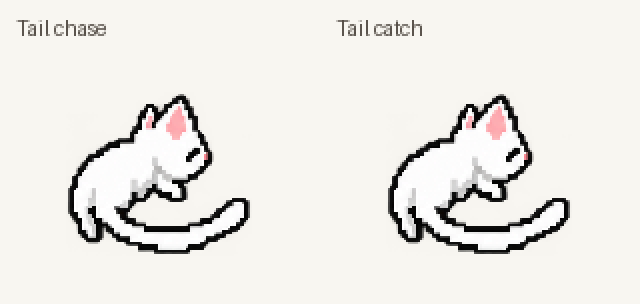
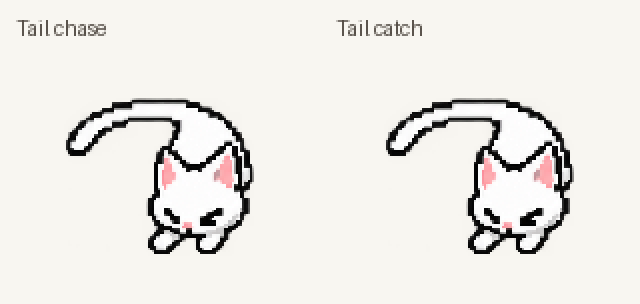
Extend tail chasing with cute transitions and favor special idles

Changed region(s): [[0.5938, 0.2961, 0.9062, 0.8586], [0.0938, 0.2961, 0.4062, 0.8586]]

diff --git a/animations.py b/animations.py
@@ -56,10 +56,10 @@ CLIPS = {
     "tail": Clip("tailswish", 0, (450, 220, 220, 350, 220, 220, 280, 900), tuple(range(8))),
     "ears": Clip("idle", 2, (700, 250, 350, 900)),
     "sniff": Clip("idle", 3, (450, 350, 450, 850)),
-    "tail_chase": Clip("tailplay", 0, (300, 200) + (50,) * 22 + (180, 500),
-                       (11, 12) + tuple(range(11)) * 2 + (12, 15)),
-    "tail_catch": Clip("tailplay", 0, (300, 200) + (50,) * 33 + (100, 120, 300, 120, 150, 400),
-                       (11, 12) + tuple(range(11)) * 3 + (12, 13, 14, 13, 12, 15)),
+    "tail_chase": Clip("tailplay", 0, (300, 180, 180, 100) + (50,) * 55 + (100, 180, 300, 600),
+                       (16, 17, 18, 19) + tuple(range(11)) * 5 + (20, 21, 22, 23)),
+    "tail_catch": Clip("tailplay", 0, (300, 180, 180, 100) + (50,) * 22 + (120, 350, 120, 150, 180, 300, 600),
+                       (16, 17, 18, 19) + tuple(range(11)) * 2 + (13, 14, 13, 12, 21, 22, 23)),
     "arrive": Clip("arrival", 0, (200, 200, 300, 120, 180, 160, 220, 520), tuple(range(8))),
     "depart": Clip("lifecycle", 2, (650, 350, 200, 150, 200, 200, 200, 200), tuple(range(8))),
     "happy": Clip("pets", 0, (450, 600, 650, 900)),
@@ -111,7 +111,7 @@ class SpriteAtlas:
                                     ("movement", 3, 4), ("transitions", 1, 4), ("affection", 1, 4),
                                     ("petting-a", 1, 3), ("petting-b", 1, 3),
                                     ("tailplay", 4, 4), ("lifecycle", 2, 4), ("tailswish", 1, 2),
-                                    ("arrival", 1, 2), ("farewell", 1, 1)):
+                                    ("arrival", 1, 2), ("farewell", 1, 1), ("tailsettle", 1, 2)):
             filename = f"neko-{bank}-v{version}.png"
             image = QImage(str(Path(path) / filename))
             if image.isNull():
@@ -127,15 +127,15 @@ class SpriteAtlas:
                     left, top = col * image.width() // 4, row * image.height() // rows
                     right, bottom = (col + 1) * image.width() // 4, (row + 1) * image.height() // rows
                     region = QRect(left, top, right - left, bottom - top)
-                    if bank in ("petting-a", "petting-b", "arrival", "tailplay"):
+                    if bank in ("petting-a", "petting-b", "arrival", "tailplay", "tailsettle"):
                         # Drawn baselines can cross a nominal row; isolate the center silhouette with padding.
                         margin = region.height() // 5
                         region = region.adjusted(0, -margin, 0, margin).intersected(image.rect())
-                    if bank == "tailplay":
+                    if bank in ("tailplay", "tailsettle"):
                         margin = (right - left) // 5
                         region = region.adjusted(-margin, 0, margin, 0).intersected(image.rect())
                     cell = image.copy(region)
-                    if bank in ("arrival", "tailplay"):
+                    if bank in ("arrival", "tailplay", "tailsettle"):
                         cell = cell.scaledToWidth(round(128 * region.width() / (right - left)),
                                                   Qt.FastTransformation)
                     else:
@@ -151,7 +151,7 @@ class SpriteAtlas:
                 sprite = QPixmap.fromImage(cell).scaled(
                     round(cell.width() * scale_x), round(cell.height() * scale_y),
                     Qt.IgnoreAspectRatio, Qt.FastTransformation)
-            elif key[0] in ("tailplay", "lifecycle", "tailswish", "arrival", "farewell"):
+            elif key[0] in ("tailplay", "lifecycle", "tailswish", "arrival", "farewell", "tailsettle"):
                 start_row = 0 if key[0] == "tailplay" else key[1] // 2 * 2
                 rows = range(4) if key[0] == "tailplay" else range(start_row, start_row + (1 if key[0] == "farewell" else 2))
                 row_cells = [cells[key[0], row, col] for row in rows
@@ -160,7 +160,7 @@ class SpriteAtlas:
                              cells["arrival", 1, 3] if key[0] == "arrival" else row_cells[0])
                 scale = min(82 / reference.height(),
                             104 / max(cell.width() for cell in row_cells),
-                            (98 if key[0] in ("tailplay", "arrival", "farewell") else 82)
+                            (98 if key[0] in ("tailplay", "arrival", "farewell", "tailsettle") else 82)
                             / max(cell.height() for cell in row_cells))
                 sprite = QPixmap.fromImage(cell).scaled(
                     round(cell.width() * scale), round(cell.height() * scale),
@@ -187,9 +187,14 @@ class SpriteAtlas:
             painter.drawPixmap(left, ground - sprite.height(), sprite)
             painter.end()
             self.frames[key] = frame
+        # Append the separately calibrated entry/settle drawings to the tail sequence.
+        for row in range(2):
+            for col in range(4):
+                self.frames["tailplay", row + 4, col] = self.frames.pop(("tailsettle", row, col))
         # The shared seated drawing prevents a different face popping in at rest.
         idle = self.frames["idle", 0, 0]
         for key in (("arrival", 1, 3), ("tailplay", 2, 3), ("tailplay", 3, 3),
+                    ("tailplay", 4, 0), ("tailplay", 5, 3),
                     ("tailswish", 0, 0), ("tailswish", 1, 3)):
             self.frames[key] = idle
         self.frames["lifecycle", 2, 0] = self.frames["farewell", 0, 0]

diff --git a/test_animations.py b/test_animations.py
@@ -13,9 +13,9 @@ APP = QApplication.instance() or QApplication([])
 
 
 class AnimationTests(unittest.TestCase):
-    def test_atlas_has_150_drawings_without_retired_or_malformed_frames(self):
+    def test_atlas_has_158_drawings_without_retired_or_malformed_frames(self):
         atlas = SpriteAtlas(Path(__file__).parent / "assets")
-        self.assertEqual(len(atlas.frames), 150)
+        self.assertEqual(len(atlas.frames), 158)
         self.assertFalse(any(key[0] == "petting" or key[:2] in (("pets", 2), ("affection", 2), ("idle", 1))
                              for key in atlas.frames))
         for retired in ("wave", "shy_dip", "nose_wiggle", "tail_curl"):
@@ -117,15 +117,18 @@ class AnimationTests(unittest.TestCase):
             self.assertEqual(atlas.frame(name, 0).toImage(), idle, name)
             self.assertEqual(atlas.frame(name, 999).toImage(), idle, name)
 
-    def test_tail_chase_has_two_turns_and_catch_has_three_before_its_pounce(self):
-        for name, turns in (("tail_chase", 2), ("tail_catch", 3)):
+    def test_tail_chase_lasts_longer_than_catch_with_shared_drawn_transitions(self):
+        for name, turns in (("tail_chase", 5), ("tail_catch", 2)):
             clip = CLIPS[name]
             cycle = tuple(range(11))
-            self.assertEqual(clip.order[2:2 + turns * 11], cycle * turns, name)
-            self.assertEqual(clip.durations[2:2 + turns * 11], (50,) * (turns * 11), name)
+            self.assertEqual(clip.order[:4], (16, 17, 18, 19), name)
+            self.assertEqual(clip.order[4:4 + turns * 11], cycle * turns, name)
+            self.assertEqual(clip.durations[4:4 + turns * 11], (50,) * (turns * 11), name)
+            self.assertEqual(clip.order[-3:], (21, 22, 23), name)
             self.assertFalse(clip.loop)
             self.assertLess(sum(clip.durations), 6000)
-        self.assertIn(14, CLIPS["tail_catch"].order[35:])
+        self.assertIn(14, CLIPS["tail_catch"].order[26:])
+        self.assertGreater(sum(CLIPS["tail_chase"].durations), sum(CLIPS["tail_catch"].durations) + 800)
 
     def test_new_source_poses_fit_without_clipping_their_silhouettes(self):
         atlas = SpriteAtlas(Path(__file__).parent / "assets")

diff --git a/test_behavior.py b/test_behavior.py
@@ -1,5 +1,6 @@
 import random
 import unittest
+from unittest.mock import patch
 
 from behavior import Companion, NekoState, PET_STATES, IDLE_STATES
 
@@ -108,6 +109,30 @@ class CompanionTests(unittest.TestCase):
         self.assertIn(NekoState.TAIL_CHASE, IDLE_STATES)
         self.assertIn(NekoState.TAIL_CATCH, IDLE_STATES)
         self.assertEqual(len(PET_STATES), 12)
+
+    def test_tail_games_get_three_times_the_idle_weight_without_repeating(self):
+        self.pet.last_idle = NekoState.TAIL_CHASE
+        with patch.object(self.pet.rng, "choice", wraps=self.pet.rng.choice) as choose:
+            self.assertEqual(self.pet.tick(20, 0, quiet=True), "fidget")
+        choices = choose.call_args.args[0]
+        self.assertNotIn(NekoState.TAIL_CHASE, choices)
+        for state in IDLE_STATES:
+            if state != NekoState.TAIL_CHASE:
+                self.assertEqual(choices.count(state), 3 if state == NekoState.TAIL_CATCH else 1)
+
+    def test_weighted_tail_games_still_leave_room_for_every_other_idle(self):
+        counts = dict.fromkeys(IDLE_STATES, 0)
+        previous = None
+        for _ in range(3000):
+            self.assertEqual(self.pet.tick(self.pet.next_idle + 1, 0, quiet=True), "fidget")
+            self.assertNotEqual(self.pet.state, previous)
+            counts[self.pet.state] += 1
+            previous = self.pet.state
+            self.pet.tick(self.pet.pose_until, 0, quiet=True)
+        share = (counts[NekoState.TAIL_CHASE] + counts[NekoState.TAIL_CATCH]) / 3000
+        self.assertGreater(share, 0.30)
+        self.assertLess(share, 0.45)
+        self.assertTrue(all(counts.values()))
 
     def test_timed_nap_counts_from_settling_and_wakes_gently_without_immediate_resleep(self):
         pet = Companion(0, sleep_seconds=45, sleep_duration=60)

diff --git a/behavior.py b/behavior.py
@@ -178,7 +178,8 @@ class Companion:
             return "fidget"
 
         if now >= self.next_idle:
-            choices = [s for s in IDLE_STATES if s != self.last_idle]
+            choices = [s for s in IDLE_STATES if s != self.last_idle
+                       for _ in range(3 if s in (NekoState.TAIL_CHASE, NekoState.TAIL_CATCH) else 1)]
             self.last_idle = self.rng.choice(choices)
             self.pose(self.last_idle, now, 8 if self.last_idle == NekoState.LOAFING else 6)
             self.next_idle = now + self.idle_seconds * self.rng.uniform(0.8, 1.3)

diff --git a/test_packaging.py b/test_packaging.py
@@ -26,6 +26,7 @@ class PackagingTests(unittest.TestCase):
         self.assertIn("assets/neko-petting-a-v1.png", names)
         self.assertIn("assets/neko-petting-b-v1.png", names)
         self.assertIn("assets/neko-tailplay-v4.png", names)
+        self.assertIn("assets/neko-tailsettle-v1.png", names)
         self.assertNotIn("assets/neko-tailplay-v3.png", names)
         self.assertIn("assets/neko-arrival-v1.png", names)
         self.assertIn("assets/neko-farewell-v1.png", names)

diff --git a/tools/preview_animations.py b/tools/preview_animations.py
@@ -167,7 +167,7 @@ def cursor_preview(atlas, destination):
 if __name__ == "__main__":
     app = QApplication.instance() or QApplication([])
     atlas = SpriteAtlas(ROOT / "assets")
-    assert len(atlas.frames) == 150
+    assert len(atlas.frames) == 158
     folder = ROOT / "docs"
     for entries, stem in ((IDLES, "neko-idle-catalog"), (ACTIVITIES, "neko-activity-catalog")):
         catalog(atlas, entries, folder / stem)

diff --git a/docs/tail-lifecycle-notes.md b/docs/tail-lifecycle-notes.md
@@ -4,13 +4,17 @@
 
 [Monitor-scene arrival and farewell](neko-lifecycle-scene.gif) · [Native-size playback](neko-tail-life-native.gif) · [All used source poses](neko-tail-life-source-frames.png)
 
-The attached GIF correction replaces the earlier slow tucked-tail cycle. Its eleven 50ms poses now guide low, stretched running with squeezed-shut eyes, alternating scrambling paws and a long tail trailing outside the turn. One 550ms turn repeats twice for chase and three times before the catch/pounce. Chase lasts 2.28 seconds; catch lasts 3.34 seconds, both inside the six-second idle slot. The lazy swish and twelve pet reactions remain as previously calibrated. [Tail-only playback](neko-tail-reference-preview.gif) preserves exact 50ms frame timing.
+The attached GIF correction replaces the earlier slow tucked-tail cycle. Its eleven 50ms poses guide low, stretched running with squeezed-shut eyes, alternating scrambling paws and a long tail trailing outside the turn. One 550ms turn now repeats five times for chase and twice before the catch/pounce. Chase lasts 4.69 seconds; catch lasts 3.68 seconds, both inside the six-second idle slot. The lazy swish and twelve pet reactions remain as previously calibrated. [Tail-only playback](neko-tail-reference-preview.gif) preserves exact 50ms frame timing.
+
+Eight new transition drawings add an eager head tilt, a crouch and a run-ready pose, then a deceleration pose, half-sit and contented closed-eye tilt before returning to canonical idle. Both clips share the entry and seated recovery; catch goes from its low pounce/crouch directly into the half-sit. The new source sheet is calibrated independently and appended as indices 16–23 in the tail bank, keeping the accepted running frames unchanged. Idle endpoints use the actual idle drawing.
+
+Each tail game has three times the selection weight of an ordinary spontaneous idle. The last selected idle is excluded before weighting, so consecutive identical idles remain impossible. Other idles, sleep timing, six-second slots and the configured gap between gestures are preserved. A seeded 3,000-selection simulation checks that tail games make up 30–45% of choices and every other idle still appears.
 
 Arrival lasts 1.9 seconds. Her actual 112px desktop window moves from just above the target monitor to the saved landing position over 700ms, with accelerating travel. Complete airborne/forepaw-contact poses lead into compression, a cheerful rebound and the canonical idle drawing. Ink is clipped to the target monitor's top edge, including when another monitor sits above it. The monitor-scene preview uses the production trajectory and atlas; the pose catalog alone does not show desktop window travel.
 
 Departure lasts 2.15 seconds. A sad look with lowered ears appears immediately for 650ms; a second downcast pose holds 350ms. The retained crouch follows for 200ms, then the previously accepted hop drawings and upward/downward arc. There is no new dialogue. Only the first two farewell candidates are imported.
 
-The atlas has 150 entries. neko-tailplay-v4.png, neko-arrival-v1.png and neko-farewell-v1.png provide the new art. neko-lifecycle-v2.png remains for its accepted departure poses; its old arrival rows are not loaded. Retired tailplay sheets are removed from the bundle. Shared idle endpoints prevent a face change at rest.
+The atlas has 158 entries. neko-tailplay-v4.png, neko-tailsettle-v1.png, neko-arrival-v1.png and neko-farewell-v1.png provide the current art. neko-lifecycle-v2.png remains for its accepted departure poses; its old arrival rows are not loaded. Retired tailplay sheets are removed from the bundle. Shared idle endpoints prevent a face change at rest.
 
 Generated poses slightly cross nominal row boundaries. Arrival and tail cells use padded sampling regions, connected-silhouette bounds and constant width-based source sampling, so paws are retained without changing scale between rows. Whole sequences share a scale and ground anchor; frames are never individually fitted to their bounding boxes. No anatomy pixels were painted or patched programmatically.
 
@@ -19,5 +23,7 @@ Every used new pose was inspected at enlarged and desktop size for one connected
 Position saves always use the landing target during flight. Hiding, motion-off, fullscreen, quitting and monitor removal restore that target before proceeding. Greeting happens after landing, unless interrupted. Petting and window reactions cannot interrupt lifecycle states; repeat quit does not restart farewell. Reduced motion and hidden/fullscreen quit remain immediate. Palm feedback and idle/pet head calibration remain unchanged.
 
 See [exact prompts](playful-motion-prompts.md), [verification](playful-motion-validation.md) and the earlier [rebuild record](animation-rebuild-validation.md).
+
+This addition has its own [transition prompt](tail-transitions-prompts.md), [verification record](tail-transitions-validation.md) and [other-idle ideas](idle-personality-ideas.md).
 
 Rebuild previews with .venv\Scripts\python.exe tools\preview_animations.py (optional Pillow). These use production atlas/timing, 30 samples/second for lifecycle, 20 FPS for tail running and 10 FPS for other actions. GIF loops are documentation replay; startup/departure run once.

diff --git a/docs/tail-transitions-prompts.md b/docs/tail-transitions-prompts.md
@@ -1,0 +1,22 @@
+# Tail entry and recovery: exact prompt
+
+Built-in ImageGen, transparent background. Character/motion references: `assets/neko-tailplay-v4.png` and `assets/neko-idle-v3.png`. Saved source: `assets/neko-tailsettle-v1.png`. The existing running sheet is preserved unchanged. Only the new sheet's import, timing and runtime previews use scripts; no anatomy pixels were programmatically edited.
+
+```text
+Use case: stylized-concept. Create a PRODUCTION TRANSPARENT PIXEL ART transition sheet for this existing white desktop kitten. Image1 is the EXACT accepted tail-running animation and image2 is the EXACT sitting identity. Preserve the existing white fur, dark stepped outline, gray shading, pink small ears/nose, rounded head, kitten proportions and head volume. This is eight NEW transition drawings, not a replacement for the running cycle. Exact 4 equal columns x2 equal rows, eight COMPLETE isolated sprites in reading order. All eight have SAME physical head size (same as reference), generous clear margins, fixed camera and planted-paw baseline, transparent alpha. No labels, floor, shadow, effects or props. Ordinary four-legged kitten anatomy: one head, one body, FOUR legs total, exactly two forelegs, one continuous tail attached at pelvis. Moving paws REPLACE old paws, hidden legs stay hidden.
+
+Frames1-4 INTRO TO TAIL GAME:
+1 front-facing neutral seated kitten, exact sitting identity reference and proportions, two forepaws planted, haunches tucked, single curled tail.
+2 seated kitten notices her own tail with a small eager sideways HEAD TILT, eyes bright, chest leans slightly toward tail, forepaws stay grounded. Cute anticipation, no human arm gesture.
+3 turns to front-right three-quarter and lowers front shoulders into a playful low crouch, hind hips rise slightly, two existing forepaws bend, hindfeet behind hips. Single tail uncurls outward behind rump. Head volume unchanged.
+4 low CURVED RUN-READY position matching FIRST sprite of image1: head at lower right, body arcs upper left, one forepaw forward and other behind, long single tail trailing in wide arc left. Eyes squeeze closed, ready to chase. This must connect naturally to first accepted run frame.
+
+Frames5-8 SETTLE FROM TAIL GAME BACK TO IDLE:
+5 run has just stopped: same low curved head-lower-right position as frame4 and first/last running sprite, eyes reopen softly, front paws both plant, hips lower a little, tail begins to relax from its outward arc. No abrupt upright pose.
+6 brings BOTH rear legs under hips, chest rises partway and rotates face toward viewer, forepaws remain planted with elbows unbending, one single tail slowly curls back toward side. Clear HALF-SIT silhouette halfway between crouch and sitting, no extra old legs left behind.
+7 nearly upright seated, TWO forepaws together, small relaxed satisfied HEAD TILT and CLOSED-EYE smile/slow blink, soft shoulders, one curled tail. This is a cute contented recovery, not a dizzy effect or falling.
+8 neutral seated front-facing exactly matching frame1 and the sitting identity reference, same head/body size and feet positions.
+
+All source sprites fully inside their cells with padding. Prioritize natural crouch -> half-sit -> contented sit, connected body silhouette and consistent head scale. No duplicated limbs, disconnected tail, giant ears, changing face proportions, human hands, belly holes or floating paws. The running body's tail trails OUTSIDE the turn, never coils under chin or around chest. Match existing art rather than redesigning the kitten.
+```
+

diff --git a/docs/tail-transitions-validation.md b/docs/tail-transitions-validation.md
@@ -1,0 +1,35 @@
+# Longer tail chase, cute transitions and frequent special idles — 2026-10-21
+
+## Result
+
+- Chase: five turns at the accepted 550ms per turn; 4.69s including entry/recovery.
+- Catch: two turns at the same speed, followed by its existing pounce/catch/release; 3.68s including entry/recovery.
+- Both fit the existing six-second idle slot, then rest. The chase lasts 1.01s longer than catch.
+- Each tail game gets three times an ordinary idle's selection weight. The last idle is excluded before weighting. Other idles and configured time between gestures remain unchanged.
+- Eight new transition drawings are appended to the tail bank as indices 16–23; 158 total atlas entries. The accepted running sheet and all other character art are unchanged.
+
+![Updated tail games](neko-tail-reference-preview.gif)
+
+## Art and handoff inspection
+
+Built-in ImageGen produced `assets/neko-tailsettle-v1.png` from the accepted tail sheet and idle identity reference. [Exact prompt](tail-transitions-prompts.md).
+
+Reviewed all eight source poses plus entry and recovery sequences in playback order at runtime scale and enlarged. Entry: seated idle, eager head tilt, crouch, run-ready, then accepted run. Chase recovery: final run, lowered hips, half-sit, contented tilted blink, canonical idle. Catch recovery: pounce/catch/release, crouch, half-sit, blink, idle. First and last seated candidates are replaced by the actual idle frame to keep the resting face consistent.
+
+No additional limbs or disconnected tails were observed. Forepaws stay planted through the half-sit; rear legs are tucked or occluded where appropriate. All used source silhouettes fit the 112px transparent canvas with clear borders. Separate calibration of the new sheet keeps the established running drawings unchanged. Source padding retains extremities across nominal cell boundaries. Scripts render/slice art; no anatomy pixels were painted or patched programmatically. Anatomical correctness remains a visual assessment.
+
+## Checks
+
+- Red/green: new duration/transition test and both selection regressions failed before implementation, then passed.
+- Focused animation/behavior run: 45 passed.
+- Full discovery: 125 run, 123 passed, two packaging tests skipped pending rebuild.
+- Clean PyInstaller build passed; `dist/DesktopNeko.exe` contains the transition sheet.
+- Packaged executable checks: both passed, including archive contents, native startup, tray/window initialization and second-instance exit.
+- Four focused native Windows checks passed: tail versus walking cadence, all-state rendering, source border clipping and previous pet head calibration.
+- A 3,000-selection seeded simulation passes the 30–45% combined tail-game share range, no consecutive repeated idle, and coverage of every ordinary idle.
+- Isolated in-memory mutation removing the extra tail weight fails the new exact-weight regression, as expected. Production files were untouched.
+- Runtime catalogs, source contact sheets and exact-50ms tail preview regenerated. `git diff --check` passed.
+
+## Scope limits
+
+No new physical multi-monitor hardware check. The old standalone Desktop executable is not overwritten; use the rebuilt file in `dist`. [Other-idle ideas](idle-personality-ideas.md) are proposals rather than implemented animation changes.

diff --git a/README.md b/README.md
@@ -24,7 +24,7 @@ Soft sounds are optional and off until you enable them.
   left or right toward it, keeping the same height. Each walk can last 6.5 seconds, travels at most about 220 pixels,
   and keeps a gap from the arrow. Mouse following is optional, with a 25-second rest.
 - **Keep working.** Tail swishes, ear flicks, sniffing, loafing, grooming, stretches,
-  yawns and sleepy peeks use 150 loaded drawings, including eight-frame transitions into
+  yawns and sleepy peeks use 158 loaded drawings, including eight-frame transitions into
   sleep and back to sitting. Most gestures have 5–6 seconds on screen: one gentle
   motion followed by a relaxed rest, without repeated head-bobbing or stretching.
   Tail swishes make one lazy sweep and rest; kneading and paw taps use slower continuous cycles.
@@ -36,9 +36,12 @@ Soft sounds are optional and off until you enable them.
   head position. Each reaction retains the same calibration throughout its poses,
   so crouching and lying down do not cause the old whole-body fitting size jump.
   Walking, loafing and sleep preserve their natural posture and proportions.
-- **A little tail trouble.** She runs low with closed eyes and a trailing tail through two quick
-  turns, following the supplied GIF's eleven 50ms poses. The catch game takes three turns, then a small pounce and a
-  two-paw catch before the tip slips away. Each finishes in her normal sitting drawing.
+- **A little tail trouble.** She runs low with closed eyes and a trailing tail through five quick
+  turns, following the supplied GIF's eleven 50ms poses. The catch game takes two turns, then a small pounce and a
+  two-paw catch before the tip slips away. An eager head tilt and crouch lead into play;
+  a half-sit and contented blink bring her back to sitting. Chase lasts 4.69 seconds,
+  catch 3.68 seconds. Each gets three times an ordinary idle's selection weight,
+  with no consecutive repeats and the same rest between gestures.
   These do not change the twelve pet reactions.
 - **Hello and goodbye.** Starting the app plays a drop-in, landing crouch and
   sit-up before her greeting. She enters from her monitor's top edge and lands at
@@ -191,6 +194,8 @@ supplies the retained chin scritches, blep and ear rubs.
 `assets/neko-petting-a-v1.png` and `assets/neko-petting-b-v1.png` each contain
 three rows of four drawings, for five new reactions and the remade paw offer.
 `assets/neko-tailplay-v4.png` supplies the eleven-pose running cycle and five preparation/payoff poses.
+`assets/neko-tailsettle-v1.png` adds eight entry/recovery poses, calibrated separately
+and appended to the tail sequence without altering the accepted running artwork.
 `assets/neko-arrival-v1.png` supplies the graceful landing; the first two drawings in
 `assets/neko-farewell-v1.png` introduce sadness before the retained hop in
 `assets/neko-lifecycle-v2.png`. `assets/neko-tailswish-v1.png` supplies the lazy swish.

diff --git a/docs/idle-personality-ideas.md b/docs/idle-personality-ideas.md
@@ -1,0 +1,11 @@
+# Giving other idles a little story
+
+Ideas for a later art pass; these are not implemented by the tail-transition change.
+
+- **Grooming:** lick one paw, wipe behind an ear, pause as if she noticed you watching, then give a soft blink. A small pause makes the payoff readable.
+- **Stretch:** reach both front paws, lengthen her back, stretch one existing hindleg, then settle with a tiny paw shake. Keep four anatomical limbs through every drawing.
+- **Loaf:** tuck each front paw in turn, draw the tail close, relax the shoulders and finish with a slow blink. The final tucked silhouette should match the resting loaf.
+- **Sniffing:** lean toward the cursor, make two little nose twitches, then a curious head tilt before sitting back. Keep cursor following subject to its existing cooldown.
+- **Ear flick:** one ear reacts first, the head turns a little, then both ears relax and she looks back at the user. A short anticipation hold gives the flick a reason.
+
+The useful pattern is anticipation, a clear action, then an affectionate payoff. Each animation should finish in a compatible rest pose, play once, and leave breathing room. A small set of carefully drawn variations would add more personality than making every idle longer or more frequent.

diff --git a/tasks/plan.md b/tasks/plan.md
@@ -1,5 +1,9 @@
 # Animation rebuild
 
+## Longer chase and frequent special idles
+
+Make chase longer than catch while preserving the accepted 50ms running poses. Chase takes five turns and catch two; both gain a drawn eager lean/crouch entry and a relaxed half-sit/blink recovery. Target 4.69s versus 3.68s, inside existing six-second slots. Generate eight transition poses without redrawing the running cycle. Give each tail game three times the ordinary idle selection weight, preserving no consecutive repeats and all other idles. Review anatomy/scale/handoffs, exercise selection and timing, regenerate previews and rebuild. Other-idle ideas are suggestions for the user, not additional animation changes in this revision.
+
 ## Playfulness revision requested after review
 
 The user supplied a crouched tail-chasing GIF and a graceful cat landing reference.
